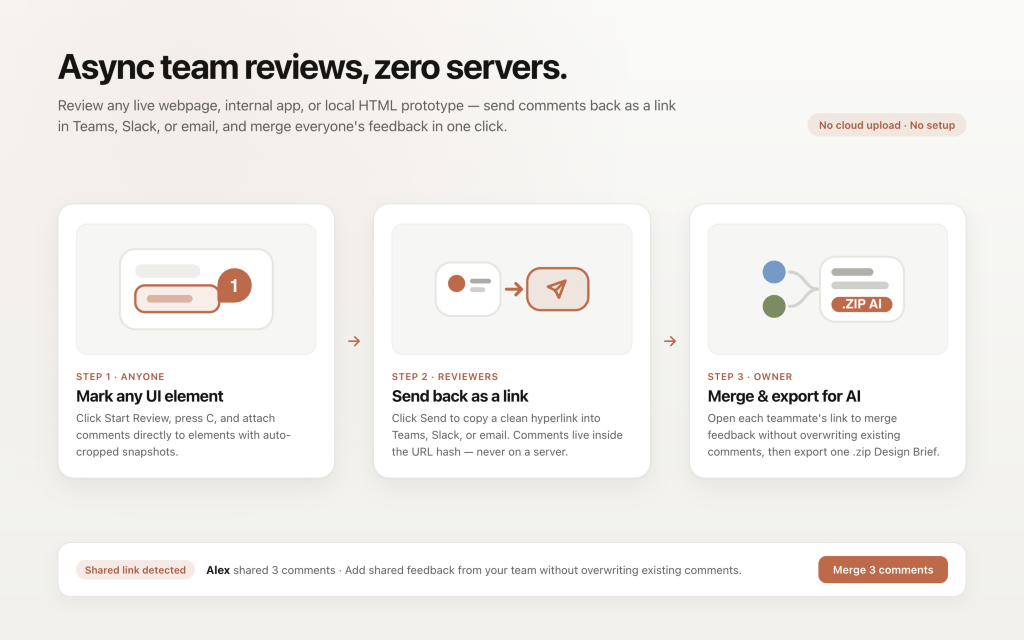
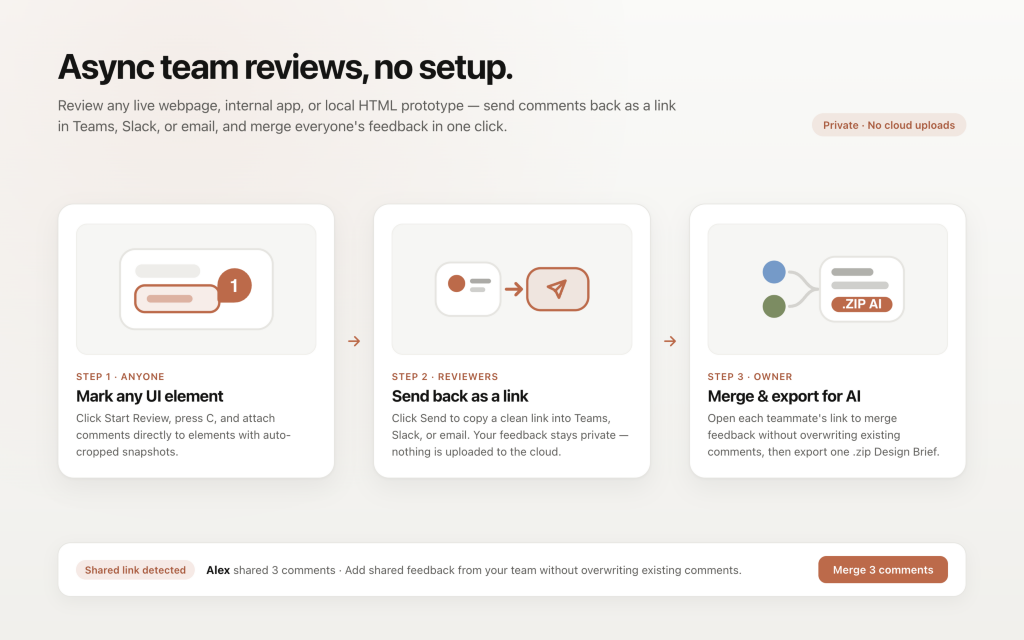
docs: replace engineering jargon with plain-language copy across UI and docs

Changed region(s): [[0.375, 0.625, 0.5938, 0.7188], [0.3438, 0.0938, 0.5625, 0.125], [0.8125, 0.1875, 0.9375, 0.2188]]

diff --git a/demo/store-assets.html b/demo/store-assets.html
@@ -1055,12 +1055,12 @@
     <div id="slide-4" class="frame slide">
       <div class="s4-head">
         <div>
-          <h1 class="h1">Async team reviews, zero servers.</h1>
+          <h1 class="h1">Async team reviews, no setup.</h1>
           <p class="s4-sub">
             Review any live webpage, internal app, or local HTML prototype — send comments back as a link in Teams, Slack, or email, and merge everyone's feedback in one click.
           </p>
         </div>
-        <span class="s4-badge">No cloud upload · No setup</span>
+        <span class="s4-badge">Private · No cloud uploads</span>
       </div>
 
       <div class="s4-flow">
@@ -1101,7 +1101,7 @@
           <div>
             <div class="s4-step-tag">Step 2 · Reviewers</div>
             <div class="s4-card-title">Send back as a link</div>
-            <p class="s4-card-desc">Click Send to copy a clean hyperlink into Teams, Slack, or email. Comments live inside the URL hash — never on a server.</p>
+            <p class="s4-card-desc">Click Send to copy a clean link into Teams, Slack, or email. Your feedback stays private — nothing is uploaded to the cloud.</p>
           </div>
         </div>
 

diff --git a/src/extension/popup.tsx b/src/extension/popup.tsx
@@ -455,7 +455,7 @@ function PopupApp() {
           <div class="guide-head">
             <div>
               <div class="guide-title">How Marklet works</div>
-              <div class="guide-sub">Zero-server async reviews for teams &amp; AI</div>
+              <div class="guide-sub">Async visual reviews for teams &amp; AI</div>
             </div>
             <button class="guide-close" aria-label="Close guide" onClick={() => setHelpOpen(false)}>
               ×

diff --git a/README.md b/README.md
@@ -9,7 +9,7 @@ Built as a lightweight Chrome / Microsoft Edge Manifest V3 extension (TypeScript
 
 ![Marklet — Visual comments on any UI](./docs/images/screenshot-1-hero.png)
 
-![Marklet — Async team reviews, zero servers](./docs/images/screenshot-4-async.png)
+![Marklet — Async team reviews, no setup](./docs/images/screenshot-4-async.png)
 
 <p align="center">
   <img src="./docs/images/screenshot-2-brief.png" alt="Export a Design Brief in one click" width="49%" />
@@ -17,7 +17,7 @@ Built as a lightweight Chrome / Microsoft Edge Manifest V3 extension (TypeScript
 </p>
 
 ## Highlights
-- **Zero-server async team collaboration (`Send` & `Merge`)**: Reviewers click **Send** to copy a compressed feedback link (pastes as a clean hyperlink in Teams, Slack, or email). The page owner opens each link and clicks **Merge** to combine everyone's comments onto the page without overwriting existing feedback — no third-party cloud, no workspace setup, and page access stays with your site.
+- **Async team collaboration (`Send` & `Merge`)**: Reviewers click **Send** to copy a clean feedback link into Teams, Slack, or email. The page owner opens each link and clicks **Merge** to combine everyone's comments onto the page without overwriting existing feedback — no workspace setup, no cloud uploads, and page access stays with your site.
 - **Export Design Brief (`.zip`)**: One-click export of `brief.md` + DOM selectors + cropped element screenshots — ready to drop straight into AI coding tools (Antigravity, Cursor, Claude, Codex, Copilot).
 - **Optional Microsoft & Google Sign-In**: Sync your real name and profile avatar onto comments with read-only OAuth (`User.Read` / `openid profile email`), or stay 100% anonymous with zero network requests.
 - **Explicit, least-privilege activation**: Uses `activeTab`, `scripting`, `storage`, and optional `identity` — zero `<all_urls>`, zero background tab monitoring. Marklet never touches a page until you click **Start Review**.

diff --git a/STORE_LISTING.md b/STORE_LISTING.md
@@ -26,14 +26,14 @@ KEY FEATURES
 • Visual context snapshots: Automatically captures a cropped screenshot of the target element so feedback stays clear even after a page changes.
 • Smart DOM anchoring: Re-attaches comments reliably across reloads and inside modals or dialogs.
 • Export Design Brief (.zip): Package open comments, selectors, discussion context, and cropped element screenshots into a single .zip ready for teammates or AI coding agents.
-• Zero-server team handoff: Click Send to copy a compressed feedback link (formatted as a clean hyperlink for Teams, Slack, or email). Teammates open the link and merge comments in one click — no backend server or file uploads required.
+• Async team handoff: Click Send to copy a clean feedback link for Teams, Slack, or email. Teammates open the link and merge comments in one click — no workspace setup or cloud uploads required.
 • Optional Microsoft & Google Sign-In: Sign in to automatically sync your real name and avatar onto comments, or use Marklet completely anonymously with zero network requests.
 • Works everywhere: Review production web pages, staging apps, or local HTML prototypes (enable "Allow access to file URLs" in extension settings for file:// pages).
 • Light & Dark mode: Automatically matches your system theme.
 
 PRIVACY & SECURITY FIRST
 • Zero background tracking: Marklet never reads or injects into a page until you explicitly click "Start Review".
-• Zero backend servers: All comments and snapshots stay privately on your device using browser local storage. Optional Microsoft / Google sign-in communicates directly with Microsoft or Google OAuth only to load your display name and avatar locally.
+• Private & local by default: All comments and snapshots stay privately on your device using browser local storage. Optional Microsoft / Google sign-in communicates directly with Microsoft or Google only to load your display name and avatar locally.
 ```
 
 ---
